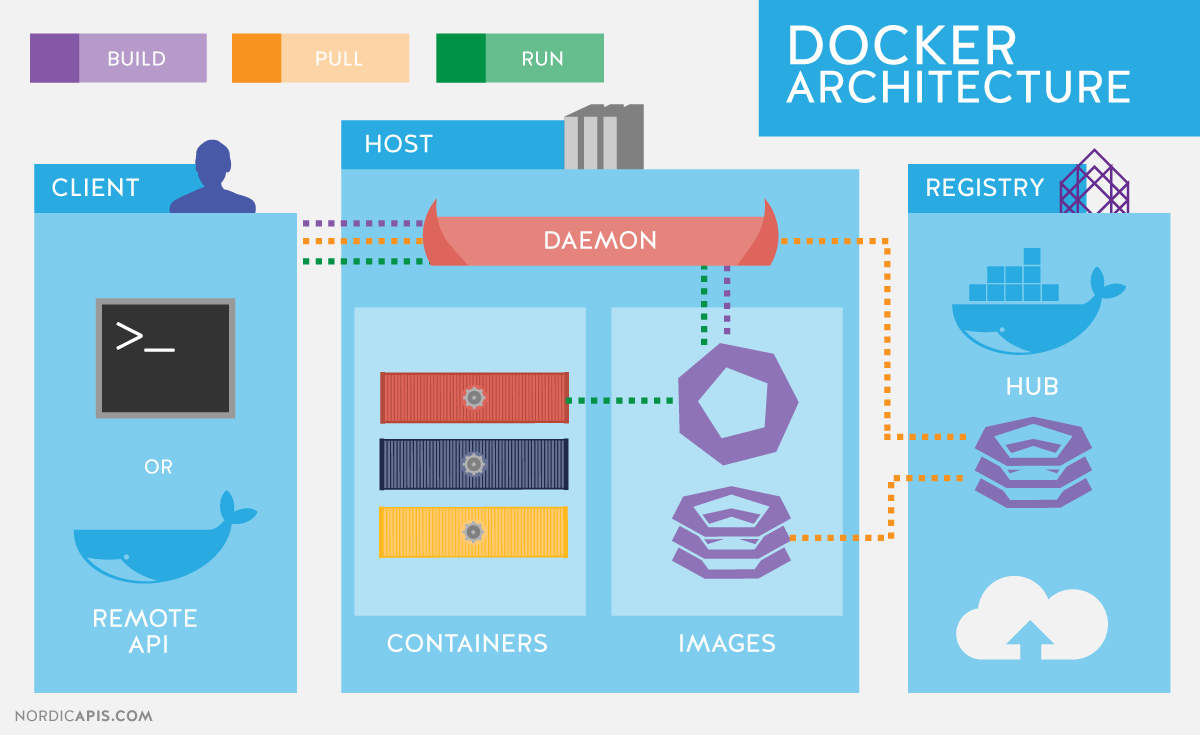
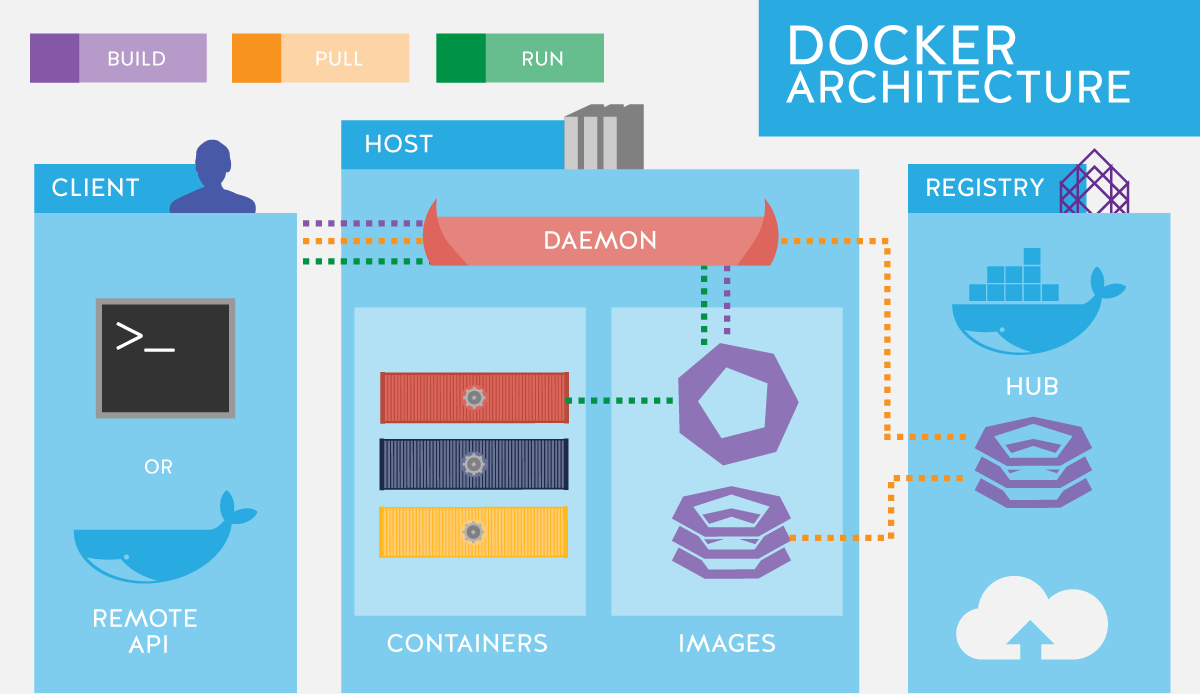
8º commit

diff --git a/recursos/02-docker_comandos.md b/recursos/02-docker_comandos.md
@@ -2,7 +2,7 @@
 
 ## O que é o Docker
 
-**Docker** é uma plataforma Open Source escrita em **Go (Linguagem de programação em alta performance desenvolvida pela Google)** que ajuda na criação e a administração de ambientes isolados. Isso permite que as aplicações partilhem o kernel do SO anfitrião em vez de executarem um SO convidado. Este design torna os **containers Docker** leves, rápidos e portáteis, mantendo-os isolados uns dos outros
+**Docker** é uma plataforma Open Source escrita em **Go (Linguagem de programação em alta performance desenvolvida pela Google)** que ajuda na criação e a administração de ambientes isolados. Isso permite que as aplicações partilhem o kernel do SO anfitrião em vez de executarem um SO convidado. Este design torna os **containers Docker** leves, rápidos e portáteis, mantendo-os isolados uns dos outros.
 
 Com a utilização do Docker podemos gerenciar toda a infraestutura de uma aplicação, bem como garantir que ambientes de desenvolvimento, homologação e produção contenham os mesmos componentes e versões de aplicações, a fim de minimizar impactos no processo de desenvolvimento e entrega de software.
 
@@ -10,14 +10,14 @@ O Docker trabalha com uma virtualização a nível do sistema operacional, onde 
 
 **Então o docker já trás as seguintes vantagens:**
 
-- Escrito na linguagem de programação Go.
-- Suporta instalações Windows, macOS e Linux (o Docker Engine é executado nativamente no Linux).
-- Resolve o problema _“funciona na minha máquina”_, garantindo que o código seja executado de forma idêntica em todos os ambientes.
-- Ao contrário do VMware (virtualização no nível do hardware), o Docker opera no nível do sistema operacional.
+- Escrito na linguagem de programação Go;
+- Suporta instalações em Windows, macOS e Linux (o Docker Engine é executado nativamente no Linux);
+- Resolve o problema _“funciona na minha máquina”_, garantindo que o código seja executado de forma idêntica em todos os ambientes;
+- Ao contrário do VMware (virtualização no nível do hardware), o Docker opera no nível do sistema operacional;
 
 Embora o Docker e as máquinas virtuais tenham um propósito semelhante, seu desempenho, portabilidade e suporte a sistemas operacionais diferem significativamente.
 
-**A principal diferença é que os containers do Docker compartilham o sistema operacional do host, enquanto as máquinas virtuais também têm um sistema operacional convidado sendo executado no sistema host, (virtual box,vmware, etc...)**. Esse método de operação afeta o desempenho, as necessidades de hardware e o suporte do SO. Confira a tabela abaixo para uma comparação detalhada.
+**A principal diferença é que os containers do Docker compartilham o sistema operacional do host, enquanto as máquinas virtuais também têm um sistema operacional convidado sendo executado no sistema host, (virtual box,vmware, etc...)**. Esse método de operação afeta o desempenho, as necessidades de hardware e o suporte do SO. Confira a imagem abaixo para uma comparação detalhada.
 
 ![VM x Containers](../imagens/docker-vm.png)
 
@@ -26,19 +26,17 @@ Embora o Docker e as máquinas virtuais tenham um propósito semelhante, seu des
 
 ### Por que usar Docker?
 
-**Antes do Docker:**
-
 A implantação de aplicativos entre ambientes era muitas vezes difícil, dependências, configurações e variações de sistema operacional causavam dores de cabeça do tipo **“funciona aqui, mas não lá”**.
 
 Em 2013, Docker introduziu o que se tornou o padrão da indústria para containers, trouxe uma maneira simples, rápida e eficiente de executar aplicações sem a complexidade de uma máquina virtual.
 
-Docker garante um ecossistema completo, fazendo com que o desenvolvedor possa trabalhar sem se preocupar, por exemplo, com a abertura de tickets para uma equipe de infraestrutura provisionar um ambiente por completo, atrasando o trabalho de entrega de software.
+O Docker garante um ecossistema completo, fazendo com que o desenvolvedor possa trabalhar sem se preocupar, por exemplo, com a abertura de tickets para uma equipe de infraestrutura provisionar um ambiente por completo, atrasando o trabalho de entrega de software.
 
 Existem diversas engines e runtimes de containers e até é possível utilizar containers sem Docker, mas atualmente o Docker é a engine/runtime de container mais utilizada no mercado, o que torna o conhecimento do mesmo um **"Must have"** e dificilmente encontraremos vagas na área de tecnologia que não pedem um conhecimento, mesmo que básico, de containers ou Docker. **Viu a expressão container?**. Vamos ver mais adiante.
 
 ### Componentes do Docker
 
-A seguir estão alguns dos principais componentes do Docker:
+**A seguir estão alguns dos principais componentes do Docker**:
 
 - **Docker Engine:** O Docker Engine tem um daemon docker como parte central, que lida com a criação e o gerenciamento de contêineres.
 - **Imagem do Docker:** A imagem Docker é um modelo só de leitura que é utilizado para criar conatainers, contendo o código da aplicação e as dependências.
@@ -48,7 +46,7 @@ A seguir estão alguns dos principais componentes do Docker:
 
 ### Docker Engine
 
-O Docker Engine é o componente principal que permite que o Docker execute containeres em um sistema. Segue uma arquitetura cliente-servidor e é responsável pela criação, execução e gestão de contentores Docker.
+O Docker Engine é o componente principal que permite que o Docker execute containeres em um sistema. Segue uma arquitetura **cliente-servidor** e é responsável pela criação, execução e gestão de contentores Docker.
 
 - O **Docker Engine Daemon (dockerd)** é executado em segundo plano, ouvindo pedidos de API e gerindo objectos como imagens, containers, redes e volumes.
 - O **Cliente Docker (docker CLI)** se comunica com o daemon usando uma API REST. Fornece o ambiente de execução onde as imagens Docker são instanciadas em containers activos.
@@ -60,7 +58,7 @@ Sem o motor Docker, as imagens Docker não podem ser construídas ou os containe
 - O **Cliente** envia comandos Docker (docker build, docker run, etc.).
 - O **Daemon** recebe estes comandos e executa operações de container. 
 
-> O daemon do Docker, muitas vezes referido simplesmente como "Docker", é um serviço em segundo plano que gere os contentores Docker num sistema
+> O daemon do Docker, muitas vezes referido simplesmente como "Docker", é um serviço em segundo plano que gere os contentores Docker num sistema.
 
 - A **API REST** é a interface que permite esta comunicação.
 
@@ -76,7 +74,7 @@ O Dockerfile é o código-fonte da imagem. É um documento de texto que contém 
 
 ### Imagem Docker
 
-Uma imagem Docker é um ficheiro composto por várias camadas que contém as instruções para construir e executar um contentor Docker. Funciona como um pacote executável que inclui tudo o que é necessário para executar uma aplicação - código, tempo de execução, bibliotecas, variáveis de ambiente e configurações.
+Uma imagem Docker é um ficheiro composto por várias camadas que contém as instruções para construir e executar um container Docker. Funciona como um pacote executável que inclui tudo o que é necessário para executar uma aplicação - código, tempo de execução, bibliotecas, variáveis de ambiente e configurações.
 
 ![Docker file](../imagens/docker-image.png)
 
@@ -95,7 +93,7 @@ Uma imagem Docker é um ficheiro composto por várias camadas que contém as ins
 
 O Docker utiliza uma arquitetura cliente-servidor. O cliente Docker 
 fala com o daemon Docker que ajuda a construir, executar e distribuir 
-os contentores Docker. O cliente Docker é executado com o daemon no 
+os containers Docker. O cliente Docker é executado com o daemon no 
 mesmo sistema ou podemos conectar o cliente Docker com o daemon Docker 
 remotamente. Com a ajuda da API REST através de um socket UNIX ou de 
 uma rede, o cliente Docker e o daemon interagem entre si. Para saber 
@@ -108,32 +106,19 @@ mais sobre o funcionamento do Docker, consulte arquitetura do docker.
 - **Daemon do Docker**: Trata de imagens, contentores, redes e volume. Serviço principal que gere objectos do Docker
 - **Tempo de execução de alto nível**: Gere as operações do ciclo de vida dos containers. As tarefas incluem criar, iniciar, parar e eliminar containers.
 
-## O que é um container
+## O que é um Contentor Docker?
 
-Um container é um ambiente completo que empacota uma aplicação e todas as suas dependências (bibliotecas, binários e arquivos de configuração) em um único pacote. Ao containerizar uma aplicação, as diferenças entre distribuições de sistemas operacionais e as camadas inferiores de infraestrutura são completamente abstraídas.
+Um container Docker é a instância viva, leve e executável de uma imagem Docker. Ele funciona como um pacote isolado que consolida uma aplicação e todas as suas dependências (bibliotecas, binários e ficheiros de configuração), garantindo que o código seja executado de forma rápida e idêntica em qualquer ambiente — seja no computador pessoal de um programador, em servidores de testes ou em instâncias de produção na nuvem.
 
-Todas as configurações e instruções para iniciar ou parar um container são ditadas por uma imagem Docker. Sempre que um usuário executa uma imagem, um novo container é gerado.
-
-O gerenciamento desses ambientes é feito de forma simples através da API do Docker ou da sua Interface de Linha de Comando (CLI). Além disso, caso seja necessário coordenar múltiplos containers interdependentes, os usuários podem controlá-los utilizando o Docker Compose (Ferramenta de composição).
-
-> **Analogia:** Imagine que o container Docker funciona exatamente como um contêiner de carga real em um navio cargueiro (o servidor). Todos os contêineres estão organizados lado a lado, compartilhando o mesmo navio, mas o conteúdo e o ecossistema de um não interferem nos outros.
+Tecnicamente, o container não é uma máquina virtual, mas sim um processo isolado que corre na máquina hospedeira (host), partilhando o mesmo kernel do sistema operativo nativo. Esta arquitetura permite lançar dezenas de containers simultaneamente no mesmo servidor com consumo mínimo de recursos (overhead) e total abstração das camadas de infraestrutura inferiores.
 
 ![Container](../imagens/container.png)
 
-Em suma, podemos dizer que o container é a unidade mínima computacional do Docker — ou seja, o menor recurso isolado que a plataforma pode fornecer.
+Pense no contêiner Docker como um contêiner de carga num navio cargueiro (o servidor). Vários contêineres partilham o espaço do mesmo navio, mas o conteúdo e o ecossistema interno de um não interferem nos outros.
 
-### Docker Container
+Todas as instruções de arranque, paragem e variáveis de ambiente de um contentor são ditadas pela sua imagem de origem (como uma imagem que combina o Ubuntu com o NGINX). A sua gestão é realizada através da CLI ou API do Docker — e, quando é necessário gerir múltiplos contentores de forma orquestrada, utiliza-se o Docker Compose.
 
-Um Contentor Docker é a instância viva, leve e executável de uma imagem Docker. Ele isola o código da aplicação juntamente com as suas dependências para garantir que a aplicação seja executada de forma rápida e consistente em qualquer ambiente — seja no computador pessoal dum programador, em servidores de testes ou em ambientes de produção na nuvem.
-
-Tecnicamente, o contentor é executado como um processo isolado na máquina hospedeira (host), mas partilhando o mesmo kernel do sistema operativo nativo. Isto permite que dezenas de contentores corram simultaneamente no mesmo sistema sem gerar overhead ou interferências mútuas.
-
-> Suponha que tem uma imagem que combine o sistema básico do Ubuntu com o servidor web NGINX. Ao executar esta imagem com o comando docker run, o Docker criará um contentor isolado onde o NGINX passará a correr imediatamente sobre essa base do Ubuntu.
-
-**Relação Fundamental:**
-
-- Imagem Docker: É o Blueprint / Receita (estática, imutável e de apenas leitura).
-- Docker Container: É a instância viva desse blueprint (dinâmica, isolada e executável).
+> Em suma, o contentor é a unidade mínima computacional do Docker — a menor instância funcional isolada que a plataforma disponibiliza.
 
 ### Distinção Histórica
 
@@ -663,14 +648,16 @@ Para visualizar as informações gerais do ambiente, podemos utilizar o comando 
 
 _Os comandos listados acima são equivalentes._
 
-> **Nota:** Para listar qualquer objeto no Docker (contentores, imagens, redes ou volumes), utilizamos uniformemente a sintaxe: 
+> **Nota:** Para listar qualquer objeto no Docker (containers, imagens, redes ou volumes), utilizamos uniformemente a sintaxe: 
 
 `docker <objeto> ls`
 
-- `docker container ls` - Lista os contentores ativos.
-- `docker image ls` - Lista as imagens locais.
-- `docker network ls` - Lista as redes configuradas.
-- `docker volume ls` - Lista os volumes de dados.
+| **Comando**           | **Descrição**                |
+| --------------------- | ---------------------------- |
+| `docker container ls` | Lista os containers ativos.  |
+| `docker image ls`     | Lista as imagens locais.     |
+| `docker network ls`   | Lista as redes configuradas. |
+| `docker volume ls`    | Lista os volumes de dados.   |
 
 Para procurar uma imagem oficial ou comunitária diretamente no Docker Hub, utilizamos o comando `docker search` seguido do nome do componente desejado:
 
@@ -904,7 +891,7 @@ docker container cp CONTAINER:CAMINHO_INTERNO CAMINHO_NO_HOST
 
 ![Docker-install](../imagens/docker-cp5.png)
 
-# Valida se o ficheiro foi guardado com sucesso no Host
+Valida se o ficheiro foi guardado com sucesso no Host
 
 `cat ~/relatorio-interno.txt`
 

diff --git a/recursos/03-docker-imagens.md b/recursos/03-docker-imagens.md
@@ -37,7 +37,7 @@ Um **Docker Registry** é um sistema centralizado de armazenamento e distribuiç
 
 ### Conta no Dockerhub
 
-Aceda ao endereço [oficial](hub.docker.com) e clique em **Sign Up** para iniciar o registo.
+Aceda ao endereço [oficial](https://hub.docker.com/) e clique em **Sign Up** para iniciar o registo.
 
 ![Registro](resources/02dockerhub1.png)
 
